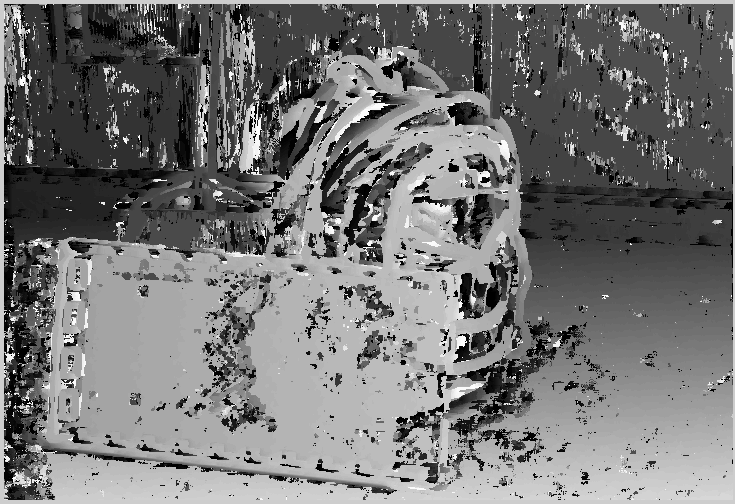
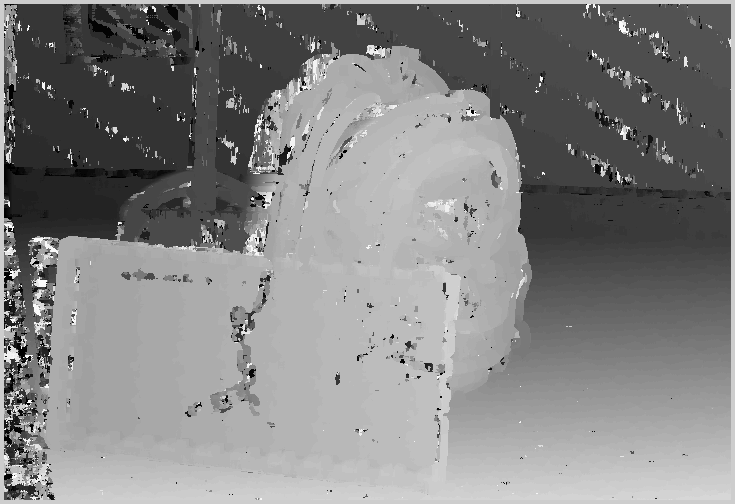
correction ZNCC

diff --git a/main.cpp b/main.cpp
@@ -1,27 +1,11 @@
-#include <stdio.h> 
-/* defines FILENAME_MAX */
-//#define FILENAME_MAX
-#define WINDOWS  /* uncomment this line to use it for windows.*/ 
-#ifdef WINDOWS
-#include <direct.h>
-#define GetCurrentDir _getcwd
-#else
-#include <unistd.h>
-#define GetCurrentDir getcwd
-#endif
+#
 #include<iostream>
 #include<iostream>
 #include<string>
 #include<vector>
 #include "lodepng.h"
 
-std::string GetCurrentWorkingDir(void) {
-	char buff[FILENAME_MAX];
-	GetCurrentDir(buff, FILENAME_MAX);
-	std::string current_working_dir(buff);
-	return current_working_dir;
-}
-unsigned char* change_size16(unsigned char* imagein,int width,int height) {
+unsigned char* change_size_RGBA(unsigned char* imagein,int width,int height) {
 	// imagein(unsigned char*) image to reduct; RGBA
 	// width, initial width of the image to reduct 
 	// height initial height of the image to reduc 
@@ -85,90 +69,72 @@ unsigned char* ZNCC(unsigned char* imageR,unsigned char* imageL,int width,int he
 	//unsigned char* meanL =(unsigned char*)malloc(width*height);
 	unsigned char* disparity_image = (unsigned char*)malloc(width*height);
 	
-	int best_d = 0; //best disparity value
-	int win_half_value = 0.5 * (win_size - 1);
+	
+	int win_half_value = 0.5 * (win_size - 1); 
 	
 	for (int j = win_half_value; j < (height- win_half_value); j++) {
-		//std::cout << j << std::endl;
-		for (int i = win_half_value; i < (width - win_half_value /2);i++) {
+		
+		for (int i =win_half_value; i < (width - win_half_value);i++) {
 			float max_sum = 0; // best sum
-			int(best_d * 255 / (disp_max));
+			int best_d = 0; //best disparity value
 			for (int d = 0; d < disp_max; d++) {
-				int meanR = 0;
-				int meanL = 0;
+				int meanR = 0; //mean image right
+				int meanL = 0; //mean image left
 				 
 				for (int win_y = -win_half_value; win_y <= win_half_value; win_y++) {
 					for (int win_x= -win_half_value; win_x <= win_half_value; win_x++) {
-						//std::cout << "j" << j << " win y " << win_y << "i " << i << "win_x" << std::endl;
-						meanR+=int(imageR[width*(j+win_y )+ i+win_x]);
+						
+						meanR+=int(imageR[width*(j+win_y )+ i+win_x - d]);
 						meanL+=int(imageL[width*(j + win_y) + i+win_x]);
-													
-						 //std::cout << meanL<<"  "<<meanR << std::endl;
-						 //std::cout << int(imageR[width*(j + win_y) + i + win_x]) << std::endl;
+						
 					}
 				}
 				meanR = meanR / (win_size*win_size);
 				meanL = meanL / (win_size*win_size);
-				//meanR = meanR / (2 * win_size);
-				//meanL = meanL / (2 * win_size);
-
-				//std::cout << meanR << std::endl;
+				
 				int sum_mean = 0;
 				float sum_varR = 0; 
 				float sum_varL = 0;
-				for (int win_y = -win_half_value; win_y < win_half_value; win_y++) {
-					for (int win_x = -win_half_value; win_x < win_half_value; win_x++) {
-						sum_mean += (imageR[width*(j+win_y) + i+win_x] - meanR)*(imageL[width*(j+win_y) + i+win_x - d] - meanL);
-						sum_varR += (imageR[width*(j + win_y) + i + win_x] - meanR)*(imageR[width*(j + win_y) + i + win_x] - meanR);
-						sum_varL += (imageL[width*(j + win_y) + i + win_x - d] - meanL)*(imageL[width*(j + win_y) + i + win_x - d] - meanL);
-						//std::cout << sum_mean << "; " << sum_varR << " ;" << sum_varL << std::endl;
+				for (int win_y = -win_half_value; win_y <= win_half_value; win_y++) {
+					for (int win_x = -win_half_value; win_x <= win_half_value; win_x++) {
+						sum_mean += (imageL[width*(j+win_y) + i+win_x] - meanL)*(imageR[width*(j+win_y) + i+win_x - d] - meanR);
+						sum_varL += (imageL[width*(j + win_y) + i + win_x] - meanL)*(imageL[width*(j + win_y) + i + win_x] - meanL);
+						sum_varR += (imageR[width*(j + win_y) + i + win_x - d] - meanR)*(imageR[width*(j + win_y) + i + win_x - d] - meanR);
+						
 					}
 				}
 				float ZNCC_value = sum_mean / (sqrt(sum_varR)*sqrt(sum_varL));
-				//std::cout << ZNCC_value << std::endl;
+				
 					if (ZNCC_value > max_sum){
 						max_sum = ZNCC_value; 
 						best_d = d; 
-				}
+					}
 			}
 			disparity_image[width*j + i] =int(best_d*255/(disp_max));
-			//std::cout << "d" << int(best_d * 255 / (disp_max)) <<std::endl;
-			//std::cout << "char" << (char)best_d;
+			
 		}
 	}
 	return disparity_image;
 }
 
 int main() {
-	std::cout << GetCurrentWorkingDir() << std::endl;
-
 	//Decode the image, source lodepng.h example
 
 	const char* filename = "img/im0.png";
-	std::cout << filename << std::endl;
 	unsigned char * image;
 
 	unsigned  width, height;
 
 	unsigned error = lodepng_decode32_file(&image, &width, &height, filename);
 	if (error) std::cout << "decoder error " << error << ": " << lodepng_error_text(error) << std::endl;
-	//free(image);
-
+	
 	//Decode image1 
 	const char* filename1 = "img/im1.png";
-	std::cout << filename1 << std::endl;
+	
 	unsigned char * image1;
 
 	unsigned error2 = lodepng_decode32_file(&image1, &width, &height, filename1);
 	if (error) std::cout << "decoder error " << error2 << ": " << lodepng_error_text(error2) << std::endl;
-
-	int i = -3;
-	std::cout << i << std::endl;
-	//test zone
-	std::cout << width << "x" << height << std::endl;
-	std::cout << strlen((char*)image) << std::endl;
-	std::cout << 4 * width* height + 4 * width << std::endl;
-	std::cout << int(image[width* height]) << std::endl;
 
 	//Processing 
 	unsigned char* imgreduct = change_size_RGB(image, width, height);
@@ -178,7 +144,7 @@ int main() {
 	unsigned char* imggrey1 = RGB_to_grey(imgreduct1, width / 4, height / 4);
 
 	//ZNCC algorithm 
-	unsigned char* disparity_image = ZNCC(imggrey, imggrey1, width / 4, height / 4, 260 / 4, 9);
+	unsigned char* disparity_image = ZNCC(imggrey1, imggrey, width / 4, height / 4, 65, 9);
 
 	//Encode the image 
 	const char* filename2 = "img/imtest.png";
@@ -191,7 +157,6 @@ int main() {
 
 	//Encode the disparity image 
 	const char* filename4 = "img/disparity.png";
-	//LodePNGColorType colortype = LCT_RGB;
 
 	error3 = lodepng_encode_file(filename4, disparity_image, width / 4, height / 4, colortype, bitdepth);
 	if (error3) std::cout << "encoder error" << error3 << ":" << lodepng_error_text(error3) << std::endl;
